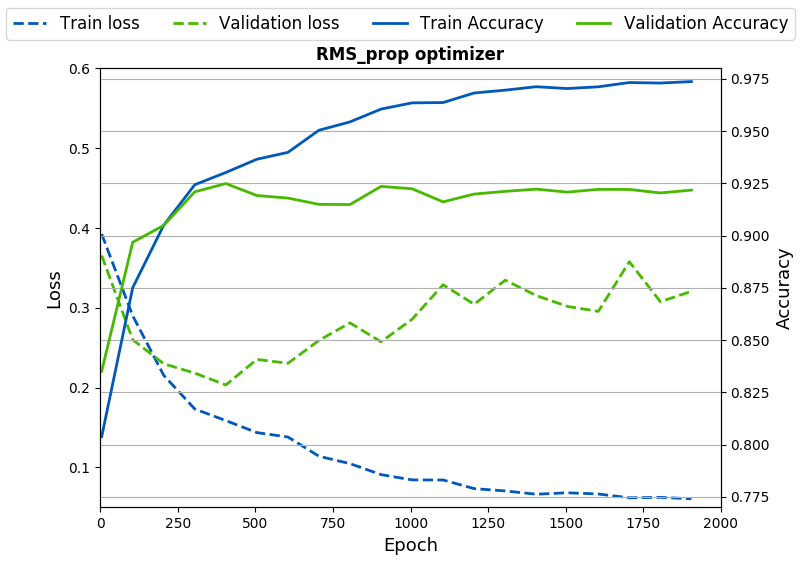
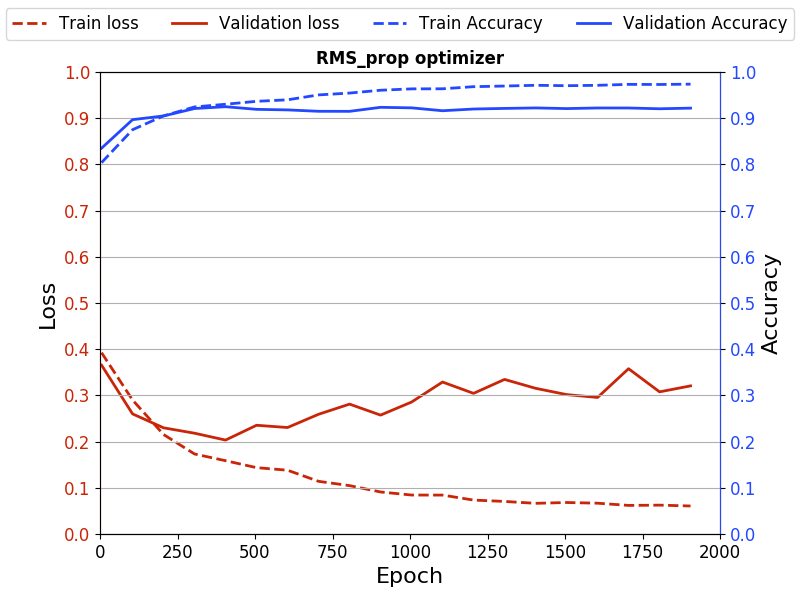
changed graph

diff --git a/src/result_visualization.py b/src/result_visualization.py
@@ -32,13 +32,13 @@ def plotloss(csvfile):
     val_acc = np.asarray(loss_values.iloc[:, 4])
 
     # Reduce the volume of data
-    epoch_skip = epoch[::20]
-    tr_loss_skip = tr_loss[::20]
-    tr_acc_skip = tr_acc[::20]
-    val_loss_skip = val_loss[::20]
-    val_acc_skip = val_acc[::20]
+    epoch_skip = epoch[::5]
+    tr_loss_skip = tr_loss[::5]
+    tr_acc_skip = tr_acc[::5]
+    val_loss_skip = val_loss[::5]
+    val_acc_skip = val_acc[::5]
 
-    fig, ax1 = plt.subplots()
+    fig, ax1 = plt.subplots(figsize=(8, 6))
     ax2 = ax1.twinx()
 
     # Label and color the axes
@@ -82,13 +82,13 @@ def plotloss(csvfile):
     ax2.set_ylim(ymax=1, ymin=0)
     ax1.set_ylim(ymax=1, ymin=0)
     plt.xlabel('epochs')
-    plt.title("SGD optimizer", weight="bold")
+    plt.title("Adam optimizer", weight="bold")
     plt.grid(True, axis='y')
 
     # return train_loss, valid_loss
 
 
 if __name__ == '__main__':
-    file = '../../history_RMS.csv'
+    file = '../history/csv/Adam.csv'
     #file = '../history/SGD/history_SGD4.csv'
     plt.show(plotloss(file))
